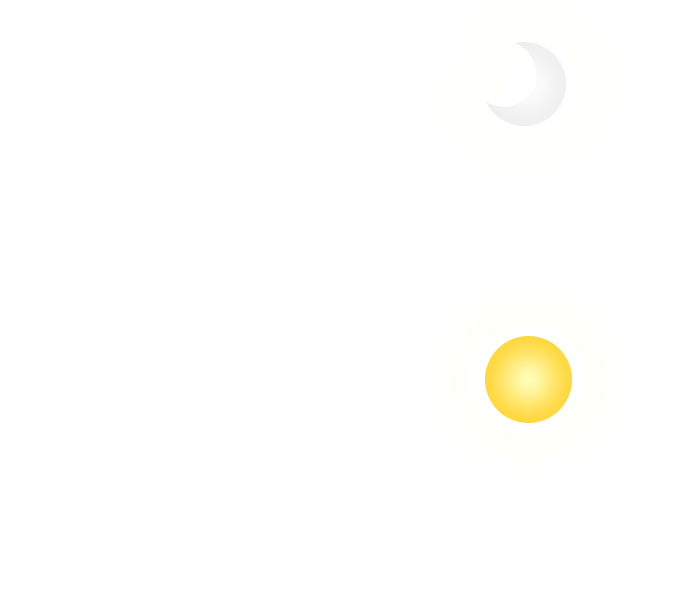
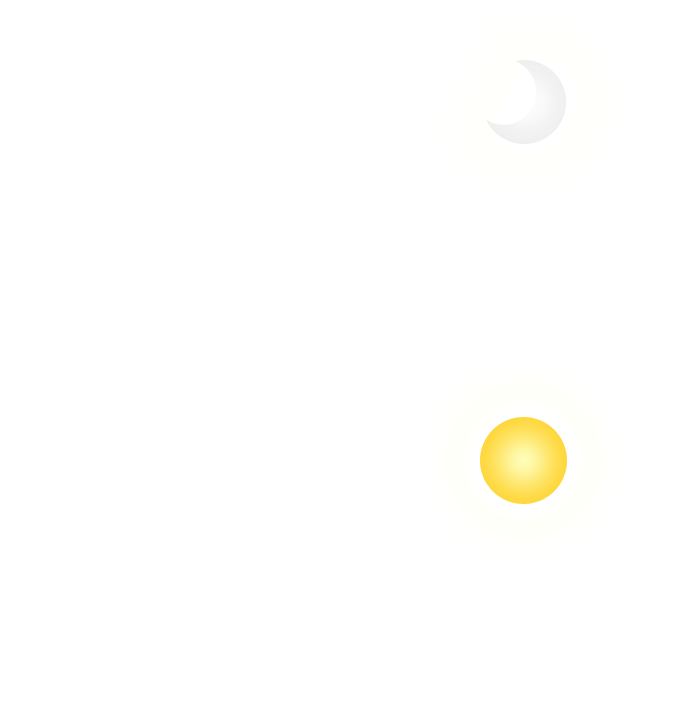
Resize sunandmoon sprite

Changed region(s): [[0.6794, 0.54, 0.8647, 0.69], [0.7412, 0.69, 0.8029, 0.72], [0.8029, 0.66, 0.8338, 0.69]]

diff --git a/src/app/assets/style/signal.css b/src/app/assets/style/signal.css
@@ -11,12 +11,12 @@ body {
   display: block;
   position: absolute;
   top: 0;
-  right: 5px;
+  right: 0;
   bottom: 0;
-  left: 5px;
+  left: 0;
   background-color: #fafafa;
   overflow: hidden;
-  box-shadow: 2px 2px 5px rgba(0,0,0,0.35);
+  /*box-shadow: 2px 2px 5px rgba(0,0,0,0.35);*/
   font-family: Arial, sans-serif;
   color: #555;
   font-size: 12px;
@@ -26,7 +26,7 @@ body {
 .sig-banner {
   position: relative;
   overflow: hidden;
-  height: 150px;
+  height: 180px;
   margin-top: 0;
   border-bottom: 1px solid rgba(0,0,0,0.35);
   box-shadow: 0px 2px 10px rgba(0,0,0,0.5);
@@ -71,10 +71,10 @@ body {
 
 .sig-card {
   display: block;
-  background-color: #fff;
+  /*background-color: #fff;*/
   border-radius: 4px;
   padding: 10px;
-  box-shadow: 1px 1px 2px rgba(0,0,0,0.2);
+  /*box-shadow: 1px 1px 2px rgba(0,0,0,0.2);*/
   margin-bottom: 10px;
 }
 
@@ -175,9 +175,9 @@ body {
 .sig-layer-sky,
 .sig-layer-sky.day {
   background-image: url(app/assets/images/sunandmoon.png);
-  background-size: 340px 300px;
-  background-position: 0 -150px;
-  height: 300px;
+  background-size: 340px 360px;
+  background-position: 0 -180px;
+  height: 360px;
   width: 340px;
   z-index: 1;
 }
